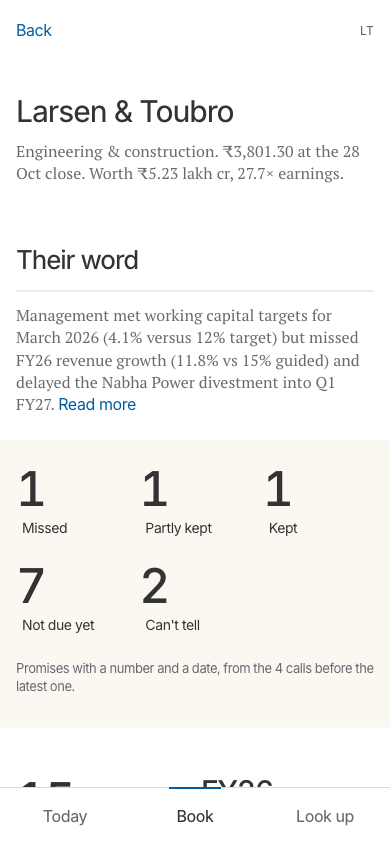
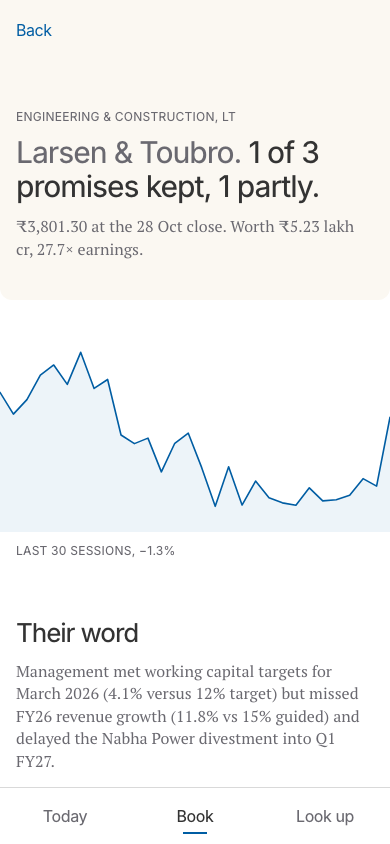
Update README screenshots

diff --git a/docs/PROGRESS.md b/docs/PROGRESS.md
@@ -1,4 +1,4 @@
-Next: 29 Oct, iteration 2 of 2. design/PLAN.md item 7: README shots from the live link (docs/img/{today,company,book}.png, 390x844), then covering note check; then keep polishing toward the reference (ideas: Look up tile content, Today card kind label). Ship with build+test, commit, push, `npx vercel --prod --yes` from app/ after a 390x844 check and the 320 px sweep (/tmp/sweep.py)
+Next: 29 Oct, iteration 2. PLAN checklist done; polishing toward the reference: Look up tiles (record line), Today card kind label, covering note check. Ship with build+test, commit, push, `npx vercel --prod --yes` from app/ after a 390x844 check and the 320 px sweep (/tmp/sweep.py; scripts are recreated each session)
 
 Next: 29 Oct (iteration 1 of the redesign after the reference, ends 08:10 IST; nothing new after 07:55). Work down design/PLAN.md's checklist: side-by-side check of each screen against shots/ref-*.png, then the critic pass, detect.mjs, writing pass, DESIGN.md + design/inspiration.md rewrite, README shots. Files: web/src/{styles.css,ui.tsx,Today.tsx,Book.tsx,CompanyView.tsx,App.tsx}. Deploy from app/ with `npx vercel --prod --yes` after a 390x844 check. The older 10:45 snapshot rebuild note still stands for a later session (`python3 pipeline/build_push.py`, then counts in README/DECISIONS/covering note/walkthrough)
 
@@ -150,3 +150,4 @@ Next: 29 Oct (iteration 1 of the redesign after the reference, ends 08:10 IST; n
 - Critic round 6 (nine pairs): Today 6, card 7.5, folds 7.5, Book 8, Book grid 6.5, Company 7.5, Their word 7, promise grid 7.5, Look up 8. Acted on: lead cards are warm (rounds 5 and 6 both read the blue card with a picture as a dashboard widget; the brand fill stays on the text-only 'Ask on the next call'); Today's windows are words with a brand rule under the one that's on, as the tab bar; wordmark tracking 0.14em -> 0.08em; promise figures up to six characters at full size ('10–12%' at 48 px); 'can't tell' moves into the tally's footnote so the tally is two full rows; the picture sits 12 px under the company header; Look up's title lower; Book tiles drop the price (DECISIONS says why). Not acted on: a 'Your lines' pill on Book and Look up (it has no job there), a section head above Today's first card
 - Critic round 7 (nine pairs): 7 / 7 / 7 / 7 / 6 / 7 / 6 / 6 / 6. Scores swing between fresh critics (round 6 gave Book and Look up 8, round 7 gave them 7 and 6 on near-identical screens). Acted on: a 'Promise by promise' head between the company tally and the grid; 'See the call' in grey, as the reference's case links (blue stays for Read more); six-character figures at 40 px (new outcome-m), 20 px column gap from 360 px up; the read's Read more on its own line; the price picture fills its plate (wash to the edges, line clear of the top); both fold titles in ink with the count grey; Book tile names 17 px at 450. Not acted on: moving the card's kind label to the foot (the date is there), 'Your lines' on every tab, taller Look up tiles (round 5 asked for shorter)
 - Caught by the sweep after a deploy: DIXON's '₹4,000–5,000 cr' pushed the page 1 px sideways at 320 px with the wider gap; fixed within minutes (the gap widens only from 360 px). Today (all windows), Book and Look up at 320 and 390 on the live link: no sideways scroll
+- README screenshots retaken from the live link at 390x844 (Today 24h, L&T, Book). PLAN checklist complete; polishing continues

diff --git a/design/PLAN.md b/design/PLAN.md
@@ -41,4 +41,4 @@ Written 29 Oct, 03:50 IST, after reading the reference's source in `design-refer
 - [x] 4. Company: page header, outcomes tally, promise grid, accordions. Side-by-side with ref-out
 - [x] 5. Look up banner and pills; Your lines sheet switches; live-build and error states
 - [x] 6. Critic pass (round 1 done 29 Oct ~04:00: Today 7, card 7, Book 6, Book cards 7, Company 8, Look up 6; fixes shipped. Round 2: 6.5 / 7.5 / 7 / 8 / 7. Round 3: 7 / 7 / 7.5 / 8 / 6.5, fixes shipped. Round 4 (seven pairs): 7 / 7 / 7.5 / 6.5 / 7 / 8 / 8, fixes shipped. Iteration 2: company page header and Book's warm top and two-column grid after the reference; round 5 (nine pairs): 6 / 6 / 6 / 7 / 5 / 7 / 5 / 6 / 7, fixes shipped; round 6: 6 / 7.5 / 7.5 / 8 / 6.5 / 7.5 / 7 / 7.5 / 8; round 7: 7 / 7 / 7 / 7 / 6 / 7 / 6 / 6 / 6, fixes shipped. The 8/10 bar is not met on every pair; fresh critics disagree by 1-2 points on unchanged screens, so the last rounds' concrete fixes were taken and the rest is logged in PROGRESS. Live flows scripted and passing. detect.mjs 0 findings. Flows checked on the live link) on all four pairs (8/10 bar), detect.mjs no P0/P1, flows on the live link (windows, Your lines, Book filter, company and Back scroll, Look up by name)
-- [ ] 7. Writing pass on every card; DESIGN.md and design/inspiration.md rewritten to this system; README shots retaken; PROGRESS and DECISIONS updated
+- [x] 7. (Iteration 2: README shots retaken from the live link 29 Oct; DESIGN.md, inspiration, walkthrough, DECISIONS synced.) Writing pass on every card; DESIGN.md and design/inspiration.md rewritten to this system; README shots retaken; PROGRESS and DECISIONS updated
